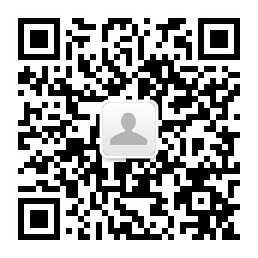
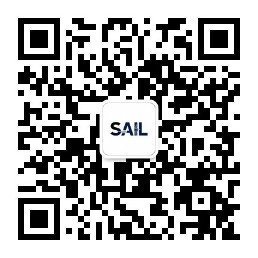
update

Changed region(s): [[0.4031, 0.4341, 0.5891, 0.6202]]

diff --git a/_includes/head.html b/_includes/head.html
@@ -5,8 +5,8 @@
   <link rel="stylesheet" href="{{ site.github.url }}/assets/libs/bootstrap/bootstrap.min.css">
   <script defer src="{{ site.github.url }}/assets/libs/fontawesome/all.min.js"></script>
   <link rel="stylesheet" href="{{ site.github.url }}/assets/css/main.css">
-  <link rel="apple-touch-icon" sizes="152x152" href="{{ site.github.url }}/assets/apple-icon-152x152.png">
-  <link rel="shortcut icon" href="{{ site.github.url }}/assets/favicon.ico">
+  <link rel="apple-touch-icon" sizes="152x152" href="{{ site.github.url }}/assets/img/logo_mini.png">
+  <link rel="shortcut icon" href="{{ site.github.url }}/assets/img/logo_mini.png">
   <link rel="preconnect" href="https://fonts.gstatic.com">
   <link href="https://fonts.googleapis.com/css2?family=Roboto:ital,wght@0,300;0,400;0,700;1,400&display=swap" rel="stylesheet">
 </head>

diff --git a/_layouts/home.html b/_layouts/home.html
@@ -47,7 +47,7 @@ layout: default
       <!-- 组会纪要 -->
       <div class="col-md-4 d-flex flex-column justify-content-center align-items-center text-center">
         <img src="/assets/img/doc.png" alt="组会二维码" class="img-fluid" style="max-width: 200px;">
-        <p class="fw-bold mt-2 mb-0">组会纪要</p>
+        <p class="fw-bold mt-2 mb-0">每周分享</p>
       </div>
 
       <!-- 组会安排 -->

diff --git a/index.md b/index.md
@@ -3,4 +3,4 @@ layout: home
 title: "Home"
 ---
 
-山东大学人工智能系统实验室 System of Artificial Intelligence Laboratory(SAIL)隶属于山东大学计算机科学与技术学院，针对AI芯片所面临的标准化水平低、生态孤立等问题，构建混合异构智算平台，释放多元化AI算力，构建统一的智能算力生态，支撑更高性能的智能计算，面向国计民生关键行业提供更高效的智能计算服务。
+山东大学人工智能系统实验室（System of Artificial Intelligence Laboratory, SAIL）隶属于山东大学计算机科学与技术学院，聚焦AI芯片领域存在的标准化程度低、生态碎片化等核心挑战，致力于构建混合异构智能计算平台，充分释放多元化的AI算力，打造统一、开放的智能算力生态体系，以支撑更高性能的智能计算，并面向国计民生关键行业提供高效、可靠的智能计算服务。
